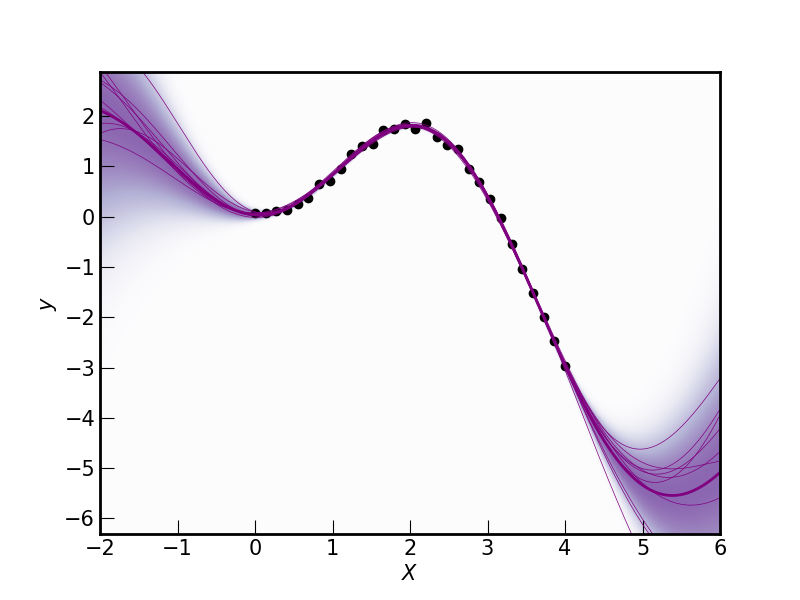
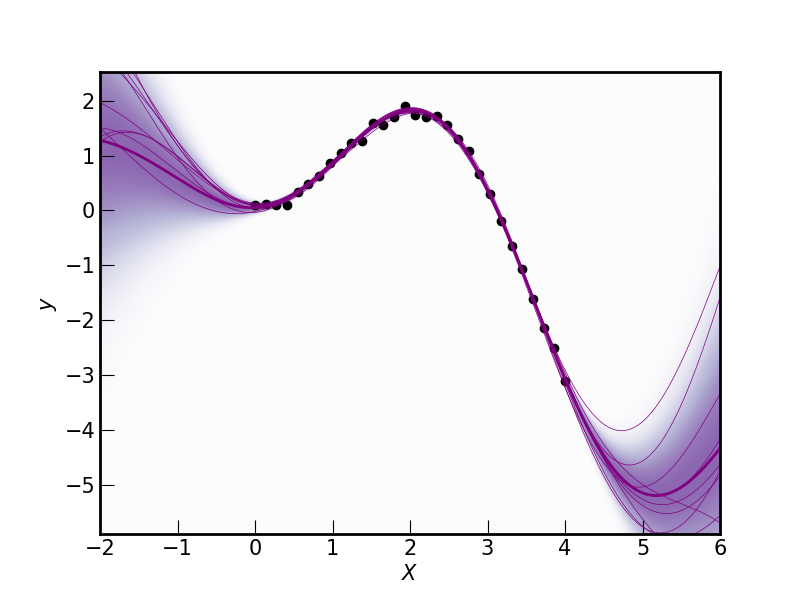
added pcg to gaussian process class

diff --git a/src/solver/classic/pcg.py b/src/solver/classic/pcg.py
@@ -5,10 +5,10 @@ from src.utils.utils import timing
 
 class PCG(Solver):
 
-    def __init__(self, A, b, M=None, maxiter=20, tol=1e-8):
-        super().__init__(A, b)
+    def __init__(self, M=None, maxiter=20, tol=1e-8):
+        super().__init__()
         self.iters = None
-        self.M = M if M is not None else np.eye(A.shape[0])
+        self.M = M
         self.maxiter = maxiter
         self.tol = tol
 
@@ -17,6 +17,9 @@ class PCG(Solver):
         """
         Conjugate Gradient Method with Preconditioning
         """
+
+        if self.M is None:
+            self.M = np.eye(self.N)
 
         self.x = np.zeros(self.N)                                       # initial solution guess
         r = self.b - self.A @ self.x                                    # initial residual

diff --git a/examples/example_gpr.py b/examples/example_gpr.py
@@ -5,6 +5,7 @@ from src.utils.utils import data_from_func
 from src.solver.solver import Solver
 from input.testfuncs_1d import oscillatory_increasing_amplitude
 from src.solver.classic.cg import CG
+from src.solver.classic.pcg import PCG
 
 # choose function
 func = oscillatory_increasing_amplitude
@@ -18,7 +19,7 @@ eps = 0.1
 
 # choose solver
 # solver = Solver()
-solver = CG()
+solver = PCG()
 
 # create GP model
 model = GP(kernel=kernel,

diff --git a/src/gpr/gaussian_process.py b/src/gpr/gaussian_process.py
@@ -56,9 +56,7 @@ class GP:
 
         # NEW
         self.solver.set_lse(A=K_, b=self.y_train)
-        # self.solver.solve()
-        self.solver.python_cg
-        print(self.solver.x)
+        self.solver.solve()
         self.alpha = self.solver.x
 
         # OLD (CHOLESKY)
